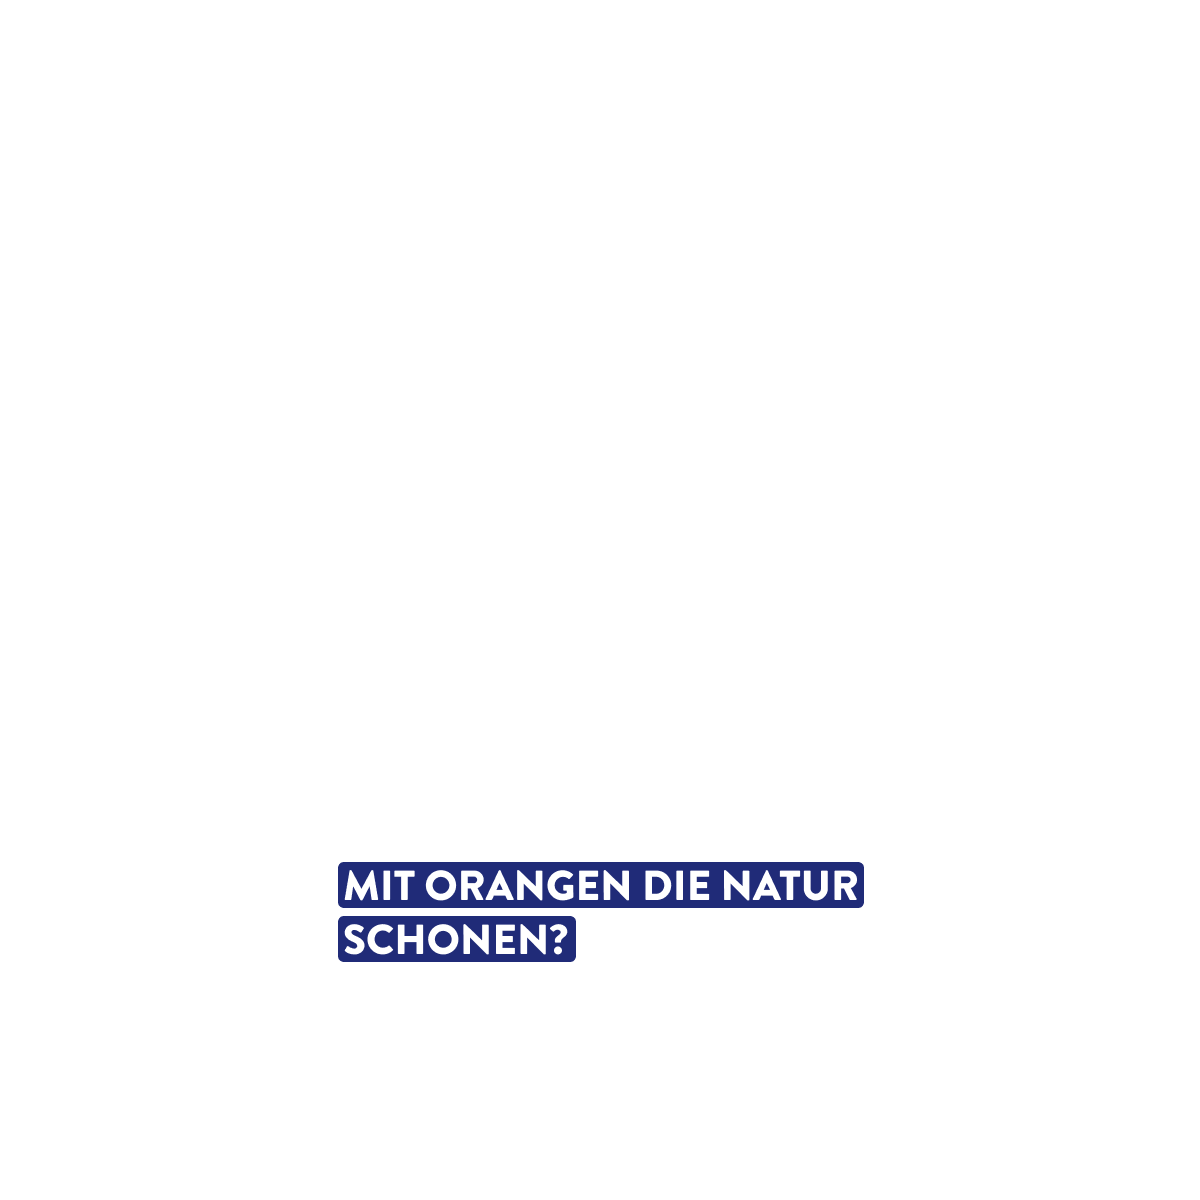
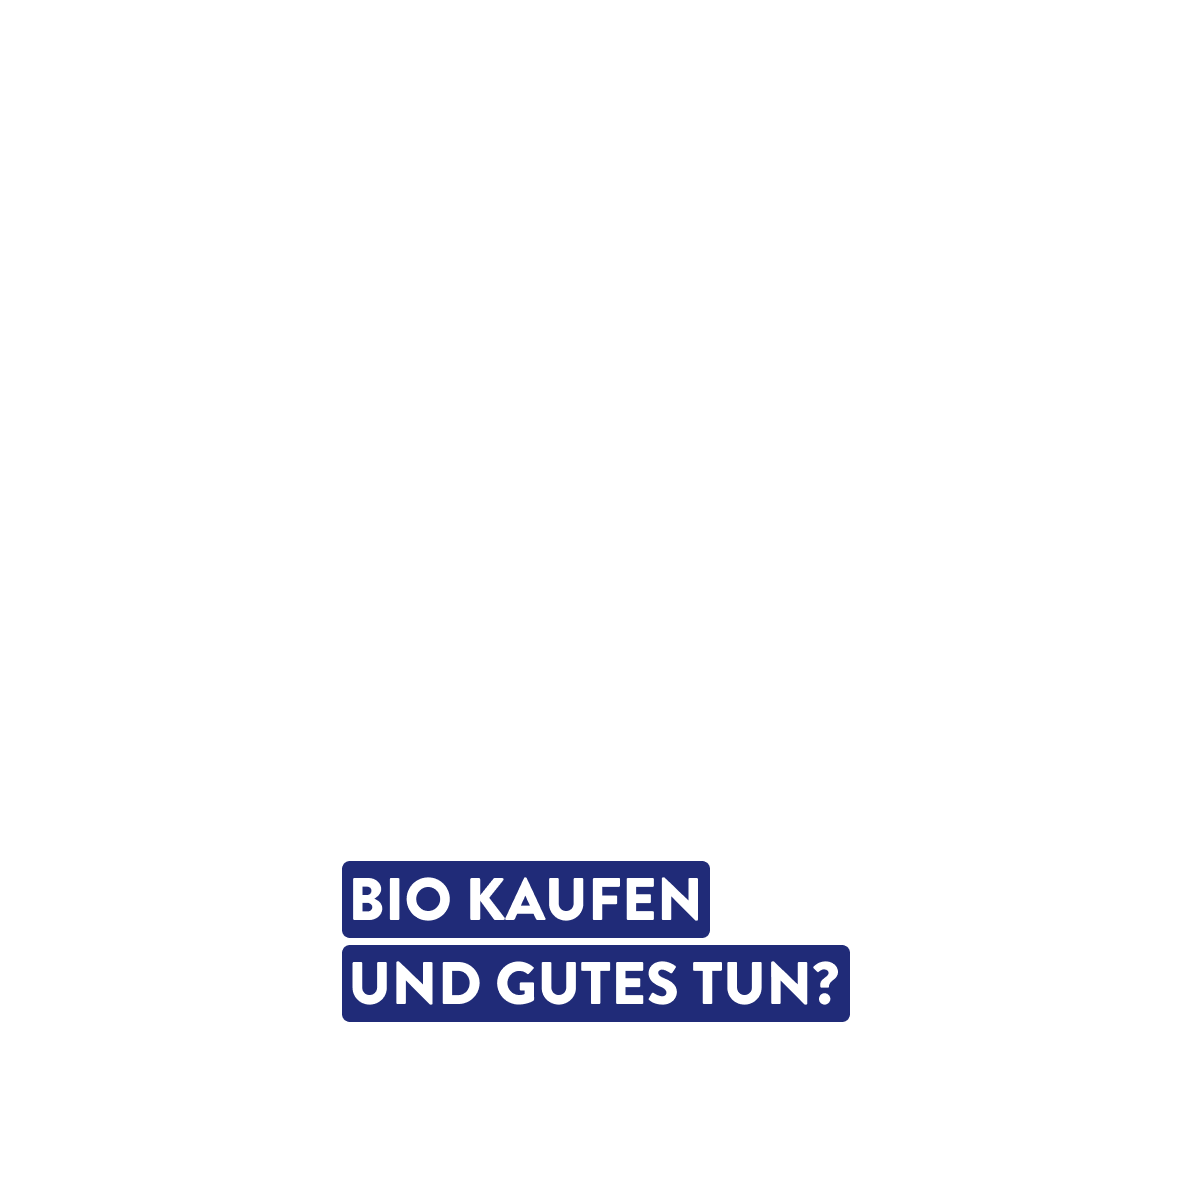
Sust phase 3 SB done

Changed region(s): [[0.2775, 0.7092, 0.74, 0.8633]]

diff --git a/preview/Aldi/Aldi_Sustainability_2025/Phase_3/Sitebar/main.js b/preview/Aldi/Aldi_Sustainability_2025/Phase_3/Sitebar/main.js
@@ -22,11 +22,13 @@ function init() {
     })
 
     document.querySelector("#mainExit").addEventListener("click", function(){
-        masterTL.progress(1);
+        // masterTL.progress(1);
+        masterTL.pause();
     })
 }
 
 function onResize(){
+    var screenW = document.body.offsetWidth;
     var bannerH = document.querySelector("#banner").offsetHeight;
     var bannerW = document.querySelector("#banner").offsetWidth;
     var bannerS = bannerH/1200;
@@ -37,9 +39,11 @@ function onResize(){
         var newScale = bannerW/(scalerW/2);
         gsap.set("#scaler", {left:"50%", xPercent:-50, transformOrigin:"50% 0%", scale:newScale*bannerS});
         gsap.set("#extraScaler", {scale:newScale*bannerS});
+        gsap.set("#extraInfo", {x:-300});
     }
     else if(bannerW < scalerW){
         gsap.set("#scaler", {left:"50%", xPercent:-50, transformOrigin:"50% 0%"});
+        gsap.set("#extraInfo", {x:-((scalerW - screenW)/2)/bannerS});
     }
     else{
         gsap.set("#scaler", {left:"0%", xPercent:0, transformOrigin:"0% 0%"});
@@ -48,39 +52,34 @@ function onResize(){
 
 function getAnimation(){
 
-    masterTL = gsap.timeline({paused:true});
+    masterTL = gsap.timeline({paused:true, repeat:1});
     masterTL.add("start")
     masterTL.to("#loaderWrapper", 0.2, {opacity:0, ease:Sine.easeInOut}, 0)
     masterTL.add("start");
-    masterTL.from("#bgBorder", 0.5, {scale:3, y:200, ease:Sine.easeOut}, "start")
-    masterTL.from("#text1", 0.5, {y:500, ease:Sine.easeOut}, "start+=0.5")
-    masterTL.from("#text1B", 0.5, {y:500, ease:Sine.easeOut}, "start+=1.2")
+    masterTL.from("#bgBorder", 0.5, {scale:4, y:100, ease:Sine.easeOut}, "start")
+    masterTL.from("#text1", 0.5, {y:1000, ease:Sine.easeOut}, "start+=0.5")
+    masterTL.from("#text1B", 0.5, {y:1000, ease:Sine.easeOut}, "start+=1.2")
     masterTL.from("#text1HighlightWrapper", 0.7, {width:0, ease:Sine.easeInOut}, "start+=1.9")
 
     masterTL.add("showFrame2", 3)
-    masterTL.from("#text2", 0.5, {y:1000, ease:Sine.easeOut}, "showFrame2+=1.5")
-    masterTL.to(["#text2"], 0.5, {opacity:0, ease:Sine.easeInOut}, "showFrame2+=4.5")
+    // masterTL.to(["#bgBorder", "#bg"], 0.5, {y:-250, ease:Sine.easeIn}, "showFrame2+=1")
+    masterTL.to(["#text1", "#text1B", "#text1HighlightWrapper"], 0.5, {y:-1200, ease:Sine.easeInOut}, "showFrame2+=1")
+    masterTL.from("#text2", 0.5, {y:1200, ease:Sine.easeOut}, "showFrame2+=1.5")
+    masterTL.from("#extraInfo", 0.5, {opacity:0, ease:Sine.easeOut}, "showFrame2+=1.75")
+    masterTL.from("#carrot", 1, {y:1200, ease: "back.out(0.5)"}, "showFrame2+=2")
+    masterTL.to(["#text2", "#carrot", "#extraInfo", "#bg", "#logo"], 0.5, {opacity:0, ease:Sine.easeInOut}, "showFrame2+=7")
 
-    masterTL.add("showStickerFrame")
-    masterTL.from("#sticker", 0.5, {y:1000, ease:Sine.easeOut}, "showStickerFrame")
-    // masterTL.from("#sticker2", 0.5, {y:1000, ease:Sine.easeOut}, "showStickerFrame+=0.2")
-    // masterTL.to(["#text1", "#text1HighlightWrapper", "#sticker", "#sticker2"], 0.5, {opacity:0, ease:Sine.easeInOut}, "showStickerFrame+=3.5")
-    masterTL.to(["#text1", "#text1B", "#text1HighlightWrapper", "#sticker"], 0.5, {opacity:0, ease:Sine.easeInOut}, "showStickerFrame+=3.5")
-
-    masterTL.add("showFrame3")
-
-    masterTL.to(["#bgBorder", "#bg"], 0.5, {y:-1000, ease:Sine.easeIn}, "showFrame3")
-    masterTL.to("#logo", 0.5, {opacity:0, ease:Sine.easeInOut}, "showFrame3+=1")
-    masterTL.from("#logo2", 0.3, {opacity:0, ease:Sine.easeOut}, "showFrame3+=1.2")
-    masterTL.from("#text4HighlightWrapper", 0.5, {y:1000, ease:Sine.easeOut}, "showFrame3+=2")
-    masterTL.from(["#text3HighlightWrapper"], 0.5, {width:0, ease:Sine.easeOut}, "showFrame3+=2.7")
+    masterTL.add("showFrame3", "-=0.3")
+    masterTL.from("#logo2", 0.3, {opacity:0, ease:Sine.easeOut}, "showFrame3")
 
     masterTL.add("endScreen")
     
     masterTL.from("#ctaLeft", 0.5, {scale:0, transformOrigin:"50% 95%", ease:Back.easeOut}, "endscreen");
     masterTL.from("#ctaRight", 0.01, {opacity:0, ease:Sine.easeOut}, "endscreen+=0.7");
     masterTL.from("#ctaRight", 0.3, {x:-50, ease:Sine.easeOut}, "endscreen+=0.7");
- 
+    
+    masterTL.to("#banner", 0.5, {}, "14.5");
+
     masterTL.play();
 
     console.log(masterTL.duration());

diff --git a/preview/Aldi/Aldi_Sustainability_2025/Phase_3/Sitebar/index.html b/preview/Aldi/Aldi_Sustainability_2025/Phase_3/Sitebar/index.html
@@ -26,16 +26,19 @@
             </div> -->
             <img id="text2" src="text2.png">
 
-            <div id="text3HighlightWrapper">
+            <!-- <div id="text3HighlightWrapper">
                 <img id="text3Highlight" src="text3_highlight.png">
             </div>
             <div id="text4HighlightWrapper">
                 <img id="text3" src="text3.png">
-            </div>
+            </div> -->
 
-            <img id="sticker" src="sticker.png">
+            <!-- <img id="sticker" src="sticker.png"> -->
             <!-- <img id="sticker2" src="sticker2.png"> -->
             
+            <img id="carrot" src="carrot.png">
+            <img id="extraInfo" src="extra_info.png">
+
             <img id="logo2" src="logo2.png">
 
             <img id="ctaRight" src="cta_right.png"> 

diff --git a/preview/Aldi/Aldi_Sustainability_2025/Phase_3/Sitebar/style.css b/preview/Aldi/Aldi_Sustainability_2025/Phase_3/Sitebar/style.css
@@ -55,7 +55,7 @@ img, div, object{
     height: 1200px;
     left: 0px;
     overflow: hidden;
-    background: #ed6b6a;
+    background: #00b8f3;
     color: #fff;
 }
 
@@ -71,12 +71,12 @@ img, div, object{
 }
 
 #bgBorder{
-    width: 536px;
-    height: 854px;
+    width: 537px;
+    height: 750px;
     left: 50%;
     transform: translateX(-50%);
     border-radius: 20px;
-    top: 35px;
+    top: 30px;
     box-shadow: 0px 0px 0px 3000px #00b8f3;
 }
 
@@ -91,8 +91,8 @@ img, div, object{
     width: 100%;
 }
 
-#sticker2,
-#sticker,
+#carrot,
+#extraInfo,
 #textB,
 #text1,
 #text2,
